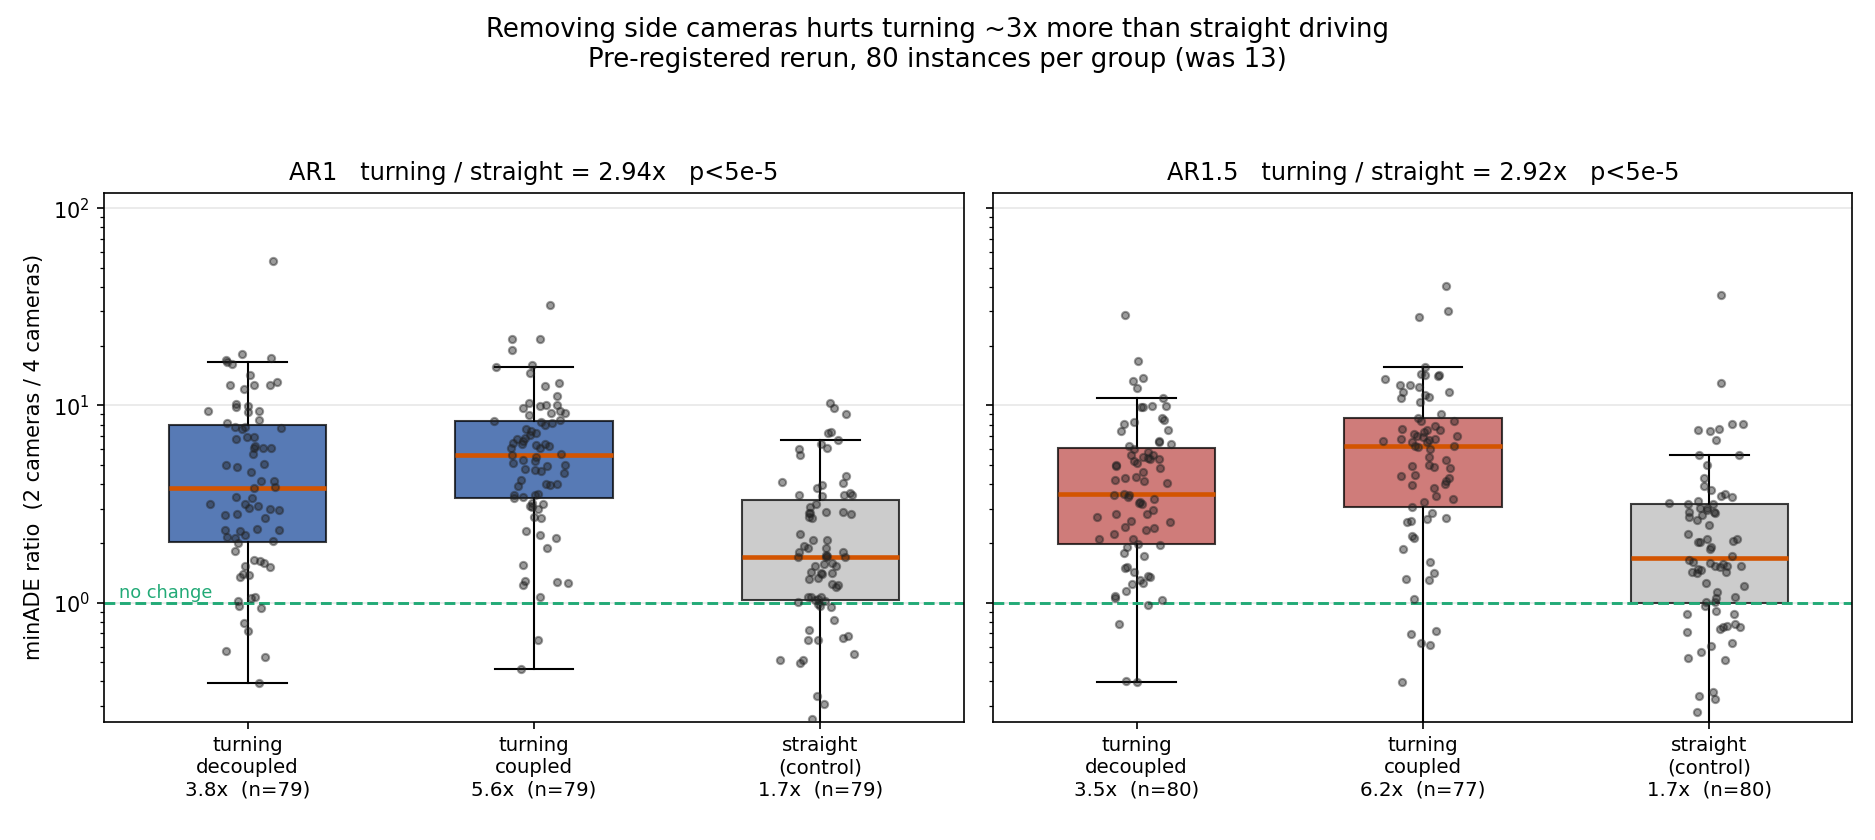
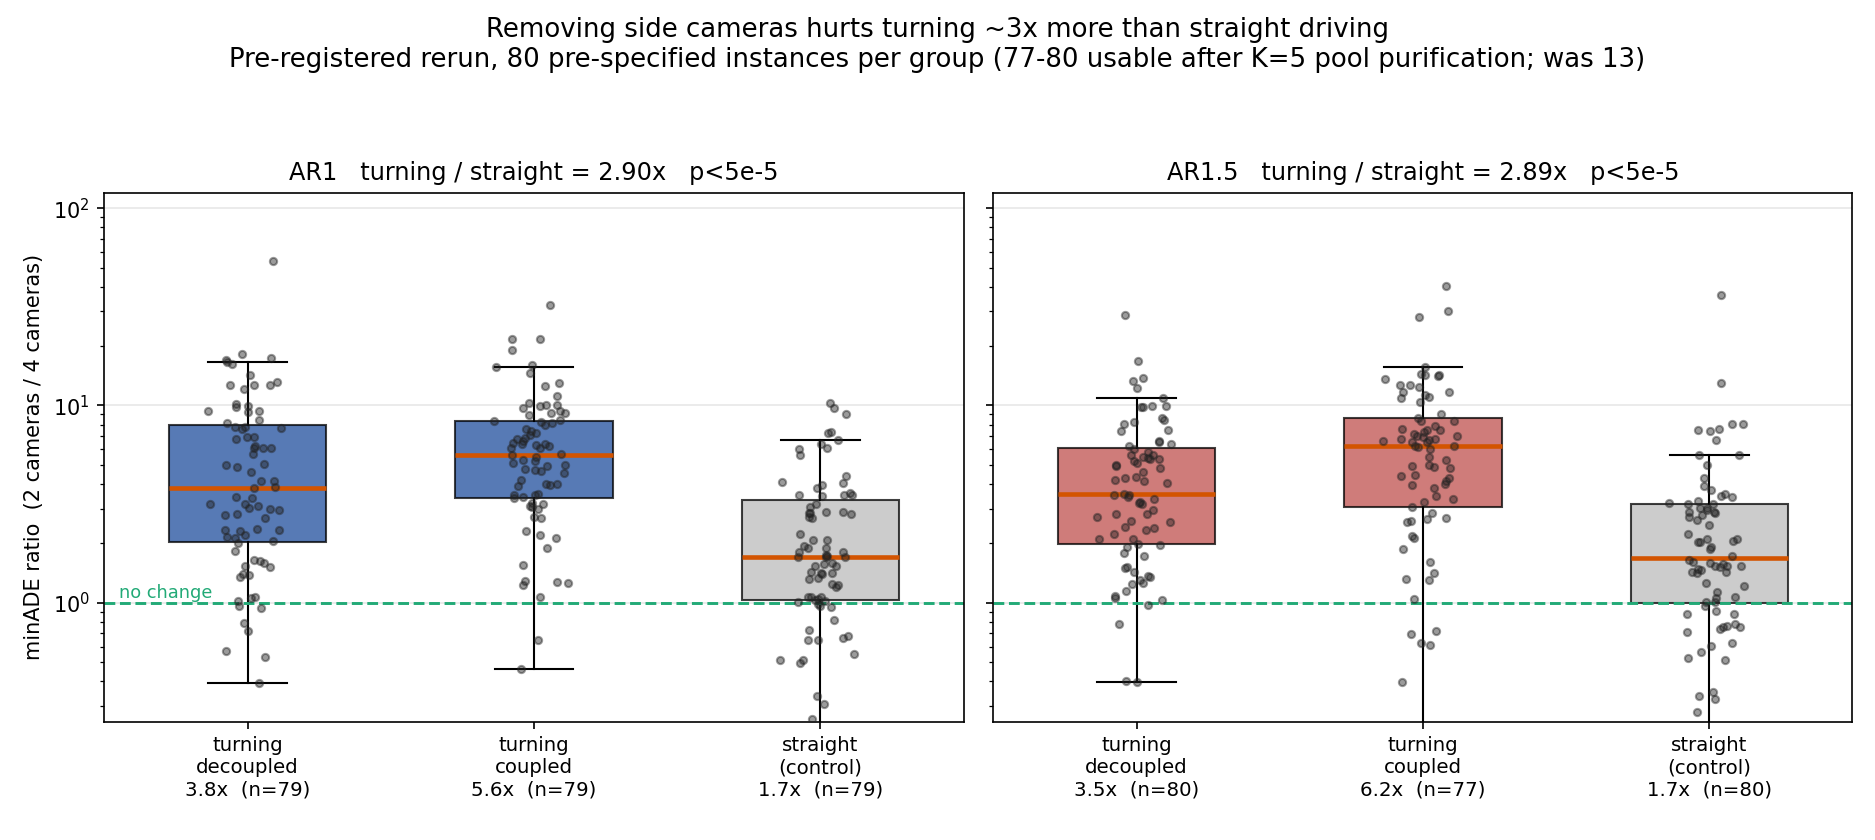
fig2/fig7: K=5-pure pool values (revision #49)

Changed region(s): [[0.1237, 0.0619, 0.8661, 0.0929], [0.8043, 0.1857, 0.8352, 0.2167], [0.3403, 0.1857, 0.3712, 0.2167]]

diff --git a/README.md b/README.md
@@ -37,11 +37,11 @@ https://raw.githubusercontent.com/<user>/<repo>/<commit-sha>/figures/<name>.png
 | `fig11_kvr_mu_sensitivity.png` | 98 KB |
 | `fig12_clic_baseline_decomposition.png` | 125 KB |
 | `fig1_decoupling_case_591dce37.png` | 118 KB |
-| `fig2_ablation_v2.png` | 144 KB |
+| `fig2_ablation_v2.png` | 150 KB |
 | `fig3_nav_counterfactual.png` | 116 KB |
 | `fig4_stratified_lad.png` | 75 KB |
 | `fig5_no_driving_harm.png` | 131 KB |
 | `fig6_coding_sensitivity.png` | 67 KB |
-| `fig7_ablation_not_specific.png` | 126 KB |
+| `fig7_ablation_not_specific.png` | 128 KB |
 | `fig8_nav_dose_response.png` | 135 KB |
 | `fig9_architecture_corrected.png` | 156 KB |
